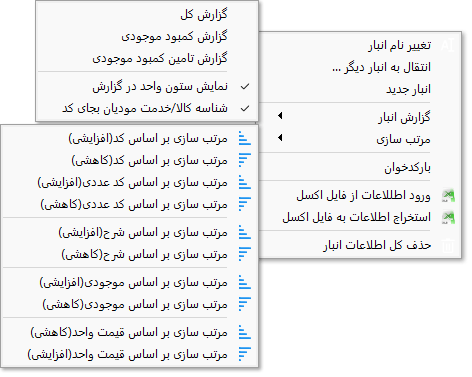
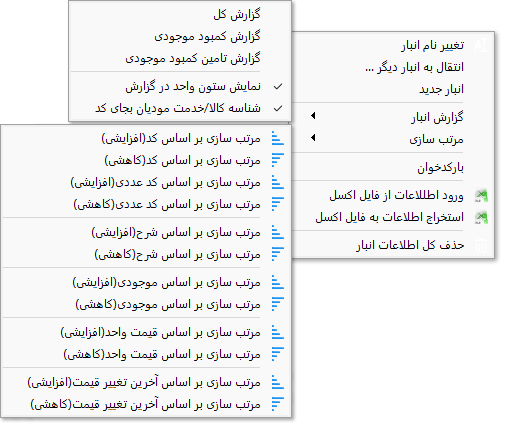
B1102

Changed region(s): [[0.0, 0.0, 1.0, 0.992], [0.0, 0.2918, 0.0297, 0.3501], [0.0593, 0.0, 0.089, 0.0292]]

diff --git a/docs/source/conf.py b/docs/source/conf.py
@@ -24,7 +24,7 @@ copyright = '2024, Mohsensoft'
 author = 'Mohsen Bahraminejad, Mohammad reza khalifeh'
 
 # The short X.Y version
-version = '4.72'
+version = '5.1'
 # The full version, including alpha/beta/rc tags
 release = '.rst'
 

diff --git a/docs/source/window-main.rst b/docs/source/window-main.rst
@@ -11,13 +11,22 @@
     :alt:  پنجره اصلی
     :align: center
 
+|
+
 بخشهای مختلف این پنجره به شرح زیر هستند :
-نوار دسترسی سریع : این نوار در بالاترین قسمت سمت چپ پنجره وجود دارد شما می توانید دستورات پر کاربرد خود را در این ناحیه سازماندهی کنید . برای افزودن و کاستن به این نوار کافیست روی هر دستور دلخواه راست کلید کنید و از گزینه افزودن و کاستن از این نوار استفاده نمایید .
-نوار ریبون : در این نوار دسته بندیی از دستورات و کاربردهای برنامه وجود دارد که تحت گروههایی سازماندهی شده است . در بخش بعد به شرح جزئیات هر دستور پرداخته خواهد شد .
-نوار اطلاعات عمومی : در این نوار اطلاعاتی نظیر عنوان ، تاریخ و شماره قابل تنظیم می باشند . لازم به ذکر است که تاریخ را میتوانید به دو صورت جلالی ( شمسی ) و میلادی که از تنظیمات قابل انتخاب هستند داشته باشید .
-نوار مشخصات جزئی مشتری/متقاضی: در این نوار برای جلوگیری از اشتباه در صدور فاکتور مشخصات کوچکی از مشتری/متقاضی انتخاب شده نمایش داده می شود، نمایش این نوار را میتوانید از پنجره تنظیمات و قسمت "ظاهر و نمایش" تنظیم کنید.
-جدول : در این بخش جدول هر برگ برای ورود و ویرایش داده های برگه نمایش داده می شود .
-نوار اطلاعات تکمیلی : در این نوار شما می توانید مواردی مثل توضیحات ، گزینه های نقدی یا غیر نقدی و مقادیر محاسباتی یا توضیحی پایان هر برگه بسته به برگی که انتخاب شده است نمایش داده می شود .
+
+**نوار دسترسی سریع :** این نوار در بالاترین قسمت سمت چپ پنجره وجود دارد شما می توانید دستورات پر کاربرد خود را در این ناحیه سازماندهی کنید . برای افزودن و کاستن به این نوار کافیست روی هر دستور دلخواه راست کلید کنید و از گزینه افزودن و کاستن از این نوار استفاده نمایید .
+
+**نوار ریبون :** در این نوار دسته بندیی از دستورات و کاربردهای برنامه وجود دارد که تحت گروههایی سازماندهی شده است . در بخش بعد به شرح جزئیات هر دستور پرداخته خواهد شد .
+
+**نوار اطلاعات عمومی :** در این نوار اطلاعاتی نظیر عنوان ، تاریخ و شماره قابل تنظیم می باشند . لازم به ذکر است که تاریخ را میتوانید به دو صورت جلالی ( شمسی ) و میلادی که از تنظیمات قابل انتخاب هستند داشته باشید .
+
+**نوار مشخصات جزئی مشتری/متقاضی:** در این نوار برای جلوگیری از اشتباه در صدور فاکتور مشخصات کوچکی از مشتری/متقاضی انتخاب شده نمایش داده می شود، نمایش این نوار را میتوانید از پنجره تنظیمات و قسمت "ظاهر و نمایش" تنظیم کنید.
+
+**جدول :** در این بخش جدول هر برگ برای ورود و ویرایش داده های برگه نمایش داده می شود .
+
+**نوار اطلاعات تکمیلی :** در این نوار شما می توانید مواردی مثل توضیحات ، گزینه های نقدی یا غیر نقدی و مقادیر محاسباتی یا توضیحی پایان هر برگه بسته به برگی که انتخاب شده است نمایش داده می شود .
+
 در ادامه به شرح جزئیات هر دستور در نوار ریبون می پردازیم:
 
 
@@ -29,6 +38,8 @@
 .. image:: images/bar_general.png
     :alt:  عمومی
     :align: center
+
+|
 
 بخشهای مختلف این نوار به شرح زیراند:
 
@@ -82,18 +93,6 @@
 
 **ویرایش :** این گزینه ها موارد معمولی و عمومی کار با حافظه موقت است که می توانید متن انتخاب شده خود را کپی و یا کات کنید و همچنین آن را در محل مورد نظرتان انتقال دهید .
 |
-
-.. _bar-service:
-
-سرویس
-``````````````````
-برای اطلاعات بیشتر در مورد این امکان به قسمت :ref:`سرویس<service-sms>` مراجعه نمایید.
-
-**ارسال پیامک:** از این گزینه برای ارسال پیامک اطلاع رسانی استفاده میشود، به علت شرایط خاص این نوع پیامک ها که از لیست سیاه مخابراتی عبور میکنند ارسال آن پیش نیازهایی دارد که در قسمت :ref:`سرویس<service-sms>` توضیح داده شده است.
-
-**ارسال پیامک تبلیغاتی:** این گزینه برای ارسال پیامک های انبوه تبلیغاتی استفاده میشود.
-
-**وضعیت:** با انتخاب این گزینه کادری نمایش داده میشود که وضعیت سرویس و لیست درخواست های ارسال شده و وضعیت آنها نمایش داده میشود.
 
 .. _template:
 
@@ -158,7 +157,7 @@
 
 از موارد کاربرد این گزینه میتوان به چاپ رسید درخواست با پرینتر قسمت پذیرش سفارش برای مشتری و چاپ همان رسید با پرینتر دیگری در قسمت انجام خدمت در یک مجموعه مانند رستوران نام برد.
 
-|newflag| **تعداد کپی :** ازاین گزینه برای تنظیم تعداد کپی از هر صفحه یا پرینت استفاده کنید، برای مثال برای پرینت دو نسخه از فاکتور یک برای مشتری و یکی برای فروشنده میتوانید این گزینه را روی 2 تنظیم نمایید.
+**تعداد کپی :** ازاین گزینه برای تنظیم تعداد کپی از هر صفحه یا پرینت استفاده کنید، برای مثال برای پرینت دو نسخه از فاکتور یک برای مشتری و یکی برای فروشنده میتوانید این گزینه را روی 2 تنظیم نمایید.
 
 
 .. _bar-output-outputpage:
@@ -186,6 +185,49 @@
 
 | برای استفاده از کلیدهای میانبر کافیست موس را روی هر کدام از گزینه ها نگه دارید تا توضیح و میانبر ان نمایش داده شود.
 |
+
+.. _bar-sms:
+
+پیامک
+----------
+.. image:: images/bar_sms.png
+    :alt: نوار پیامک
+    :align: center
+
+توسط این نوار میتوانید پیامک اطلاع رسانی و تبلیغاتی ارسال نمایید.
+
+**تنظیمات:** با انتخاب این گزینه پنجره تنظیمات پیامک نمایش داده میشود، برای اطلاعات بیشتر در مورد این قسمت به :ref:`پنجره تنظیمات<setting-sms>` مراجعه نمایید.
+
+**وضعیت:** با انتخاب این گزینه کادری نمایش داده میشود که وضعیت سرویس و لیست درخواست های ارسال شده و وضعیت آنها نمایش داده میشود.
+
+**ارسال پیامک:** از این گزینه برای ارسال پیامک اطلاع رسانی استفاده میشود، به علت شرایط خاص این نوع پیامک ها که از لیست سیاه مخابراتی عبور میکنند ارسال آن پیش نیازهایی دارد که در قسمت :ref:`سرویس<service-sms>` توضیح داده شده است.
+
+**ارسال پیامک تبلیغاتی:** این گزینه برای ارسال پیامک های انبوه تبلیغاتی استفاده میشود.
+
+|newflag| **ارسال سریع :** در این قسمت الگوهای پیامکی که تعریف کرده اید نمایش داده میشود و با انتخاب آن بصورت سریع و بدون انتخاب گزینه ای دیگر پیامک مربوطه ارسال خواهد شد. با نگه داشتم موس روی هر گزینه متن پیامی که ارسال خواهد شد نمایش داده میشود.
+
+برای اطلاعات بیشتر در مورد این امکان به قسمت :ref:`سرویس<service-sms>` مراجعه نمایید.
+
+
+.. _bar-mtax:
+
+سامانه مودیان
+-------------------
+.. image:: images/bar_mtax.png
+    :alt: نوار سامانه مودیان
+    :align: center
+
+توسط این نوار میتوانید انواع عملیات مربوط به سامانه مودیان را انجام دهید :
+
+**وضعیت ارسال ها** : توسط این گزینه پنجره وضعیت ارسال ها نمایش داده میشود، در مورد این پنجره توجه داشته باشید که با یک بار باز کردن آن پس از اجرای نرم افزار نیازی به باز ماندن آن نیست و با بستن آن نیز عملیاتهای مربوط به این پنجره انجام میشوند.
+
+**وضعیت این فایل** : این گزینه وضعیت ارسال فایل باز شده را نشان میدهد و در صورت کلیک بر روی آن سابقه ارسالهای موفق این فایل نمایش داده میشوند.
+
+**عدم نمایش فیلدهای سامانه مودیان** : توسط این گزینه میتوانید به برگه کنونی فیلدهای اصلی سامانه مودیان را اضافه کنید تا بتوانید مقادیر مورد نظرتان را در آنها تنظیم کرده و به همراه فایل ذخیره کنید،، در این حالت در زمان ارسال در پنجره ارسال به سامانه مودیان نیازی به تنظیم مجدد این فیلدها نیست.
+
+**ارسال** : در این قسمت میتوانید فاکتور کنونی را با موضوعات مختلف ارسال نمایید.
+
+برای اطلاعات بیشتر به قسمت :ref:`ارتباط با سامانه مودیان<mtax>` مراجعه نمایید.
 
 .. _bar-settings:
 
@@ -373,7 +415,7 @@
 
 نوار دسترسی سریع انبار
 ---------------------------------------
-|newflag| در برخی مشاغل مانند سفارش غذا تعدادی از اقلام زیادتر از سایر موارد موجود در انبار مورد استفاده قرار میگریند و دسترسی سریع به آنها برای افزودن به فاکتور در سرعت عمل صدور فاکتور بسیار موثر خواهد بود.
+در برخی مشاغل مانند سفارش غذا تعدادی از اقلام زیادتر از سایر موارد موجود در انبار مورد استفاده قرار میگریند و دسترسی سریع به آنها برای افزودن به فاکتور در سرعت عمل صدور فاکتور بسیار موثر خواهد بود.
 از این رو قابلیتی به نرم افزار فاکتور افزوده شده است که بتوانید لیستی از این موارد پرکاربرد را در گوشه ای از نرم افزار جای دهید و بسرعت بهمراه گزینه هایی برای انتخاب سریع تعداد برگزینید تا به فاکتور افزوده گردد.
 
 در نوار بالایی نرم افزار در بخش عمومی و قسمت "ورود اطلاعات" گزینه ای با عنوان "دسترسی سریع" وجود دارد که با انتخاب آن نواری عمودی در کنار نرم افزار نمایش داده خواهد شد:

diff --git a/docs/source/window-settings.rst b/docs/source/window-settings.rst
@@ -98,6 +98,8 @@
 همچنین پشتیبانگیری از این فایلها به عهده کاربر نرم افزار می باشد.
 
 
+|newflag| **ذخیره خودکار هنگام خروجی :** با فعال بودن این گزینه هنگامی که یکی از دستورات صادر کردن یا پرینت را انتخاب کنید فایل ذخیره میشود، اگر تابحال فایل درحال ویرایش را ذخیره نکرده اید با نام پیشفرض در پوشه کاربر ذخیره انجام میشود، در این حالت عملکرد ذخیره شبیه به گزینه ":ref:`ذخیره در پوشه کاربر<bar-general-doc>`" خواهد بود.
+
 **حذف سابقه فایلهای باز شده :** برای پاک کردن لیست فایل های باز شده که در منوی اصلی و پنجره شروع نمایش داده می شوند میتوانید از این گزینه استفاده نمایید.
 
 **نمایش پوشه فایلهای پشتیبان :** نرم افزار بصورت خودکار 10 ذخیره آخر یک فایل را در یک پوشه ذخیره میکند تا در صورت بروز هر مشکلی بتوانید به آن رجوع کنید.
@@ -142,7 +144,7 @@
 
 **رنگ شماره :** توسط این گزینه میتوانید رنگ مقدار شماره در برگه هایی که این فیلد را دارند تعیین نمایید.
 
-|newflag| **رنگ مبلغ نهایی :** توسط این گزینه میتوانید رنگ مبلغ نهایی در برگه هایی که این فیلد را دارند تعیین نمایید.
+**رنگ مبلغ نهایی :** توسط این گزینه میتوانید رنگ مبلغ نهایی در برگه هایی که این فیلد را دارند تعیین نمایید.
 
 
 .. _setting-ui:
@@ -291,6 +293,10 @@
     * قبل از بررسی متن پیام برگشتی درخواست از نظر خطاهای معمول شبکه مانند خطای نبود آدرس، عدم دسترسی، پایامترهای اشتباه، خطای وب سرویس و موارد مشابه بررسی میشود و در صورت صحت موارد بالا وارد قسمت بررسی شرط خواهد شد.
 
 
+**افزودن دبل کوتیشن**: با فعال کردن این دو گزینه کاراکتر " به شماره دریافت کننده یا متن در حالت GET اضافه خواهد شد. در حالت POST-JSON شماره یا شماره های دریافت کننده تبدیل به آرایه میشوند.
+
 **ارسال آزمایشی**: با استفاده از این گزینه میتوانید یک پیام آزمایشی با تنظیماتی که انجام داده اید ارسال نمایید و نتیجه ارسال را مشاهده کنید، پس از این ارسال پیفامی شامل موفقیت آمیز بودن یا نبودن، متن پاسخی که از سرور دریافت شده است ( این متن به حافظه موقت نیز کپی میشود و میتوانید آنرا در یک ویرایشگر متن بچسبانید و مورد بررسی قرار دهید) و همچنین نتیجه بررسی شرط نمایش داده خواهد شد.
 
-**افزودن دبل کوتیشن**: با فعال کردن این دو گزینه کاراکتر " به شماره دریافت کننده یا متن در حالت GET اضافه خواهد شد. در حالت POST-JSON شماره یا شماره های دریافت کننده تبدیل به آرایه میشوند.
+**صدور تنظیمات**: توسط این گزینه میتوانید تنظیمات انجام شده در قسمت پیامک اختصاصی را در یک فایل ذخیره کنید، برای مثال ممکن است بخواهید تنها این تنظیمات را به سیستم دیگری منتقل کنید یا چند نمونه تنظیمات برای اتصال ذخیره کنید و در موقع نیاز آنها را فراخوانی نمایید.
+
+**فراخوانی تنظیمات**: توسط این گزینه میتوانید تنظیمات ذخیره شده با گزینه قبل را فراخوانی کنید، همچنین اگر بخواهید از طربق قسمت بلاگ سایت تنظیمات سرویس دهنده های متفاوت را دریافت کنید توسط این گزینه آنها را فراخوانی کنید.

diff --git a/docs/source/installation.rst b/docs/source/installation.rst
@@ -6,10 +6,43 @@
 
 نصب
 ======
+برای استفاده از نرم افزار میبایست نرم افزار در سیستم شما نصب شود.
+ 
+برای نصب نرم افزار و مشاهده آخرین آپدیت های نرم افزار به |download_link| مراجعه کرده و از لینک دانلود آن را دانلود نمایید.
 
-| برای استفاده از نرم افزار میبایست نرم افزار در سیستم شما نصب شود.
-| 
-| برای نصب نرم افزار و مشاهده آخرین آپدیت های نرم افزار به |download_link| مراجعه کرده و از لینک دانلود آن را دانلود نمایید.
+
+
+.. _requirements:
+
+پیش نیازها
+````````````````
+نرم افزار برای اجرا پیشنیاز خاصی ندارد، تنها کافیست فایل نصب آن را اجرا کنید و مراحل نصب را انجام دهید، توصیه میشود از کپی کردن فایل نصب در ویندوز جدید بپرهیزید زیرا در این حالت نرم افزار بدرستی اجرا نخواهد شد.
+
+**سیستم عامل :** بهترین سیستم عامل برای نصب نرم افزار فاکتور همیشه جدیدترین ویندوز میباشد، توصیه ما در مرحله اول ویندوز 11 سپس ویندوز 10 میباشد،
+از نرم افزار در سایر نسخه های ویندوز نیز میتوانید استفاده نمایید ولی ممکن است برخی امکانات در آنها در دسترس نباشد.
+
+
+**WebView2 :** نرم افزار برای اجرا نیاز به WebView2 دارد، معمولا در ویندوزهای جدید این پیشنیاز بصورت پیشفرض نصب میباشد.
+
+اگر این کتابخانه نصب نبود نرم افزار در اولین اجرا به شما پیغام خواهد داد و لینک دانلود آن را نیز نسبت به سیستم عاملتان پیشنهاد میدهد.
+
+برای نصب دستی میتوانید از لینکهای زیر نیز استفاده نمایید:
+
+
+| ویندوز 10 و 11 (64 بیت):
+| https://dl.mohsensoft.com/requirements/webview/WebView2_Win10.11_x64.zip
+
+| ویندوز 10 و 11 (32 بیت):
+| https://dl.mohsensoft.com/requirements/webview/WebView2_Win10.11_x86.zip
+
+| ویندوز 7 و 8 (64 بیت) :
+| https://dl.mohsensoft.com/requirements/webview/WebView2_Win7.8_x64.zip
+
+| ویندوز 7 و 8 (32 بیت):
+| https://dl.mohsensoft.com/requirements/webview/WebView2_Win7.8_x86.zip
+
+| سایت ماکروسافت :
+| https://developer.microsoft.com/microsoft-edge/webview2#download-section
 
 .. note::  اگر لیست کالا یا خدمات وارد شده در نسخه های قبل از 3 را لازم دارید پیش از حذف نسخه قبلی ابتدا فایل بانک اطلاعاتی انبار را طبق مراحلی که در قسمت :ref:`مهاجرت از نسخه های قبلی<from-old-version>` وجود دارد برداشته ، بعد از نصب نسخه جدید مراحل مورد نظر را توسط این فایل به اتمام برسانید.
 

diff --git a/docs/source/fileproc.rst b/docs/source/fileproc.rst
@@ -1,0 +1,48 @@
+.. meta::
+   :description: پردازش و محاسبه فایل های ذخیره شده با نرم افزار فاکتور
+
+.. _fileproc:
+
+|newflag| پردازش فایل
+============================
+از ویرایش 7 امکانی به نرم افزار فاکتور اضافه شده است که میتوانید بدون باز کردن فایل ها قیمت نهایی یا مجموع قیمت نهایی فایل یا فایلها را مشاهده نمایید.
+
+این کار از چند طریق قابل انجام میباشد:
+
+.. _fileproc_explorer:
+
+1. اکسپلورر ویندوز
+-----------------------
+در این روش کافیست فایل یا فایلهایی که قصد مشاهده مجموع قیمت نهایی آنها را دارید انتخاب کرده و روی آنها راست کلیک نمایید و گزینه "مجموع مبلغ نهایی" را انتخاب نمایید :
+
+.. image:: images/fileproc_menu.png
+    :alt:  پنجره پردازش فایل
+    :align: center
+
+پس از انتخاب این گزینه پنجره زیر نمایش داده میشود که در آن اطلاعات فایل(ها) نمایش داده شده است:
+
+.. image:: images/fileproc.png
+    :alt:  پنجره پردازش فایل
+    :align: center
+
+در این پنجره دقت داشته باشید که فایلهایی که با ویرایش 7 نرم افزار فاکتور یا بالاتر ذخیره شده باشند امکان خواندن مبلغ نهایی از آنها وجود دارد، پس نرم افزار به شما لیست فایلهایی که این شرایط را ندارند نمایش میدهد تا بتوانید آنها را یکبار با ویرایش جدید بازکنید تا این مشکل برطرف گردد.
+
+همچنین در بخش دیگر این پنجره فایلهایی که امکان خواندن آنها بر اثر مشکلات مختلف وجود نداشته است لیست شده اند.
+
+
+
+.. _fileproc_embed:
+
+2. قسمت مدیریت فایل نرم افزار
+--------------------------------------
+با رفتن به قسمت :ref:`مدیریت فایل<file-manager>` نرم افزار فاکتور امکانات بیشتری در این رابطه در اختیار شما قرار میگیرد :
+
+.. image:: images/tab_file_fileproc.png
+    :alt:  پنجره پردازش فایل
+    :align: center
+
+|
+
+در این قسمت با رفتن به هر پوشه اگر در آن پوشه فایل ذخیره شده فاکتور وجود داشته باشد بدون اینکه نیاز به انتخاب فایلی باشد نتیجه پردازش همه فایلهای آن پوشه در قسمت سمت راست نمایش داده میشود.
+
+اگر فایل یا فایلهایی را انتخاب نمایید بجای حالت قبل نتیجه پردازش فایل های انتخاب شده نمایش داده خواهد شد.

diff --git a/docs/source/import-from-excel.rst b/docs/source/import-from-excel.rst
@@ -9,10 +9,14 @@
     :alt:  ورود اطلاعات از فایل اکسل
     :align: center
 
+|
+
 گاهی لازم می شود اطلاعات را از فایل اکسل به برنامه وارد کرد . برای مثال ممکن از قبلا از اکسل برای بایگانی داده ها استفاده می کردید و یا برای وارد کردن داده ها از برنامه ای دیگر تنها راه خروجی گرفت از آن برنامه به یک فایل اکسل و بعد از آن وارد کردن به برنامه باشد .
 بسته به محلی که قرار است اطلاعات به آن قسمت منتقل شود که ممکن است خود جدول فاکتور، انبار و یا لیست مشتری/متقاضی باشد. پنجره زیر باز خواهد شد :
 
 در این پنجره ابتدا فایل اکسل مورد نظر خود را توسط گزینه "انتخاب فایل" انتخاب نمایید.
 بعد از انتخاب فایل محتویات فایل نمایش داده خواهد شد. ابتدا برگه ( Sheet ) مورد نظر خورد را انتخاب نمایید ، سپس در نوار "ستون " مشخص کنید هر ستون از فایل پس از وارد کردن در کدام یک از ستون های فاکتور یا انبار و یا فیلدهای مشتری/متقاضی جای گیرند .
-بعد از آن مشخص کنید داده ها از سطر چندم تا سطر چندم وارد شوند. برای مثال در تصویر بالا چون در فایل اکسل سطری برای نام هر ستون وجود داشته است و جزء اطلاعات نیست محدوده از 2 تنظیم شده است.
+
+بعد از آن مشخص کنید داده ها از سطر چندم تا سطر چندم وارد شوند. با انتخاب محدوده و سطر مورد نظر برای راحتی شما و بالابردن دقت محدوده مورد نظرتان، مناطقی که روشن میمانند وارد خواهند شد و مناطق تیره رنگ وارد نخواهند شد.
+
 در پایان "وارد کردن" را انتخاب نمایید .

diff --git a/docs/source/changes-log.rst b/docs/source/changes-log.rst
@@ -6,6 +6,36 @@
 تغییرات ویرایش ها
 ==========================
 
+**ویرایش 7.0**
+-------------------
+* افزوده شدن امکان پردازش فایل برای محاسبه قیمت نهایی چند فایل. |fileproc|
+* افزوده شدن امکان ارسال پیامک سریع. |bar_sms|
+* آپدیت آخرین تغییرات سامانه مودیان.
+* افزوده شدن فیلدهای شماره کارت و توضیحات به مشخصات مشتری/متقاضی/پروژه. |cust|
+* افزوده شدن فیلد خودکار آخرین تغییر قیمت به انبار. |bank|
+* ارتقاء رابط کاربری قسمتهای مشخصات صادرکننده، مشتری و پنجره مشتری.
+* افزوده شدن امکان مرتب سازی انبار بر اساس قیمت، موجودی و آخرین تغییر قیمت. |bank_menu|
+* ارتقاء رابط کاربری پنجره ورود اطلاعات از فایل اکسل. |import_from_excel|
+* بهبود سرعت اجرای نرم افزار.
+* افزوده شدن امکان محاسبه اعداد اعشار در محاسبه درجای عبارات ریاضی در سلولهای جدول. |inlinecalc|
+* افزوده شدن امکان انتخاب فیلد های جستجو در پنجره مشتری. |cust|
+* افزوده شدن امکان صادر کردن و فراخوانی تنظیمات پیامک اختصاصی. |settings_sms|
+* افزوده شدن امکان ذخیره خودکار در هنگام گرفتن هر نوع خروجی. |settings_save|
+
+
+.. |fileproc| raw:: html
+
+    <a class="more_info" href="https://mohsensoft.com/docs/faktor/fileproc.html" target="_blank"></a>
+
+.. |bar_sms| raw:: html
+
+    <a class="more_info" href="https://mohsensoft.com/docs/faktor/window-main.html#bar-sms" target="_blank"></a>
+
+.. |import_from_excel| raw:: html
+
+    <a class="more_info" href="https://mohsensoft.com/docs/faktor/import-from-excel.html" target="_blank"></a>
+
+
 **ویرایش 6.5**
 -------------------
 * افزوده شدن امکان انتقال گروهی اقلام انبار به انبارهای دیگر. |bank|

diff --git a/docs/source/mtax.rst b/docs/source/mtax.rst
@@ -132,7 +132,7 @@
 
 این انتخاب ستونها برای دفعات آینده ذخیره میشود و نیازی به تنظیم مجدد آنها نیست.
 
-|newflag| پس از تائید ورود اطلاعات پنجره ای شامل اطلاعات برداشت شده از اکسل نمایش داده می شود تا اطلاعاتی که برای ارسال برداشت و تبدیل شده اند نمایش داده شوند ، در این قسمت میتوانید با دوبار کلیک بر روی هر سطر اقلام آن صورتحساب را مشاهده نمایید.
+پس از تائید ورود اطلاعات پنجره ای شامل اطلاعات برداشت شده از اکسل نمایش داده می شود تا اطلاعاتی که برای ارسال برداشت و تبدیل شده اند نمایش داده شوند ، در این قسمت میتوانید با دوبار کلیک بر روی هر سطر اقلام آن صورتحساب را مشاهده نمایید.
 سپس با انتخاب گزینه "تائید" عملیات ارسال شروع خواهد شد.
 
 **فرمت اکسل** ورودی در این روش بسیار ساده است، در هر سطر از فایل اکسل مشخصات خریدار شامل : نوع شخص از لحاظ حقیقی یا حقوقی، شماره اقتصادی و کدپستی در صورت حقیقی بودن و یک قلم کالا با مشخصات شناسه کالا و قیمت و تعداد و سایر موارد در صورت نیاز میباشد

diff --git a/docs/source/window-cust.rst b/docs/source/window-cust.rst
@@ -43,6 +43,12 @@
 
 
 
-**مرتب سازی :** چهار گزینه مرتب سازی در این قسمت بنا بر عنوان نمایش داده شده برای مرتب سازی موارد نمایش داده شده در لیت پایینی پنجره می باشد.
+**مرتب سازی :** چند گزینه مرتب سازی در این قسمت بنا بر عنوان نمایش داده شده برای مرتب سازی موارد نمایش داده شده در لیست پایینی پنجره می باشد.
 
 **بازنشانی همه عنوان ها :** برای برگرداندن همه تغییر عنوان های انجام شده که در بالا توضیح داده شد به حالت پیشفرض از این گزینه استفاده نمایید.
+
+**حذف کامل همه اطلاعات مشتری/متقاضی ها :** با استفاده از این گزینه همه اطلاعات مشتری/متقاضی/پروژه ها که در این پنجره وارد کرده اید پاک خواهد شد و در صورت نداشتن پشتیبان امکان بازگشت آنها نخواهد بود.
+
+|newflag| **ستونهای جدول نتیجه جستجو :** با استفاده از این منو میتوانید انتخاب کنید چه فیلدهایی در جدول نتیجه جستجو نمایش داده شوند.
+
+|newflag| **فیلدهای جستجو :** توسط این منو میتوانید مشخص کنید در هنگام جستجو در چه فیلدهایی عمل جستجو انجام شود.

diff --git a/docs/source/window-bank.rst b/docs/source/window-bank.rst
@@ -176,7 +176,7 @@
 **انتقال به انبار دیگر**: این گزینه برای انتقال مورد انتخابی کنونی به انباری دیگر است، پس از انتخاب، پنجره ای برای انتخاب انبار مقصد نمایش داده خواهد شد.
 برای انتخاب چند مورد بصورت همزمان کافیست از کلید :code:`Shift` یا :code:`Ctrl` به همراه کلیک کردن استفاده نمایید، سپس از منوی راست کلیک لیست نیز برای انتقال میتوانید استفاده نمایید.
 
-**مرتب سازی :** در منوی پنجره میتوانید توسط دو گزینه مرتب سازی اطلاعات انبار را بر اساس کد صعودی و نزولی مرتب نمایید .
+**مرتب سازی :** توسط این منو میتوانید بر روی تعدادی از فیلدهای انبار مرتب سازی بر اساس کد صعودی و نزولی انجام نمایید .
 
 **ورود اطلاعات از فایل اکسل :** توسط این گزینه میتوانید لیست کالا/خدمات مورد نظرتان که در یک فایل اکسل ذخیره شده است را وارد نرم افزار نمایید. برای اطلاعات بیشتر در مورد نحوه کار به قسمت :ref:`ورود اطلاعات از فایل اکسل<import-from-excel>` مراجعه نمایید.
 

diff --git a/docs/source/service-sms.rst b/docs/source/service-sms.rst
@@ -96,6 +96,8 @@
 ```````````
 در این قسمت میتوانید لیستی از الگو ها ایجاد نمایید و یک نام مناسب برای یافتن آن در نظر بگیرید.، توسط گزینه های بالای آن نیز میتوانید الگو انتخابی را ویرایش، حذف یا مورد جدیدی اضافه کنید.
 
+توسط گزینه های جهت دار بالای لیست میتوانید ترتیب لیست را تغییر دهید، این ترتیب همان ترتیب نمایش آنها در قسمت :ref:`نوار پیامک<bar-sms>` از پنجره اصلی برای دسترسی سریع هستند.
+
 
 |
 |

diff --git a/docs/source/index.rst b/docs/source/index.rst
@@ -3,12 +3,12 @@
 
 .. _index:
 
-راهنمای فاکتور  6
+راهنمای فاکتور  7
 =======================
 
 .. centered:: بسم الله الرحمن الرحیم
 
-.. image:: images/faktor6.1_splash.jpg
+.. image:: images/faktor7_splash.jpg
     :alt:  نرم افزار فاکتور
 
 |
@@ -52,6 +52,7 @@
    service-sms
    mtax
    file-manager
+   fileproc
    calculator
    cardpay
    backup
